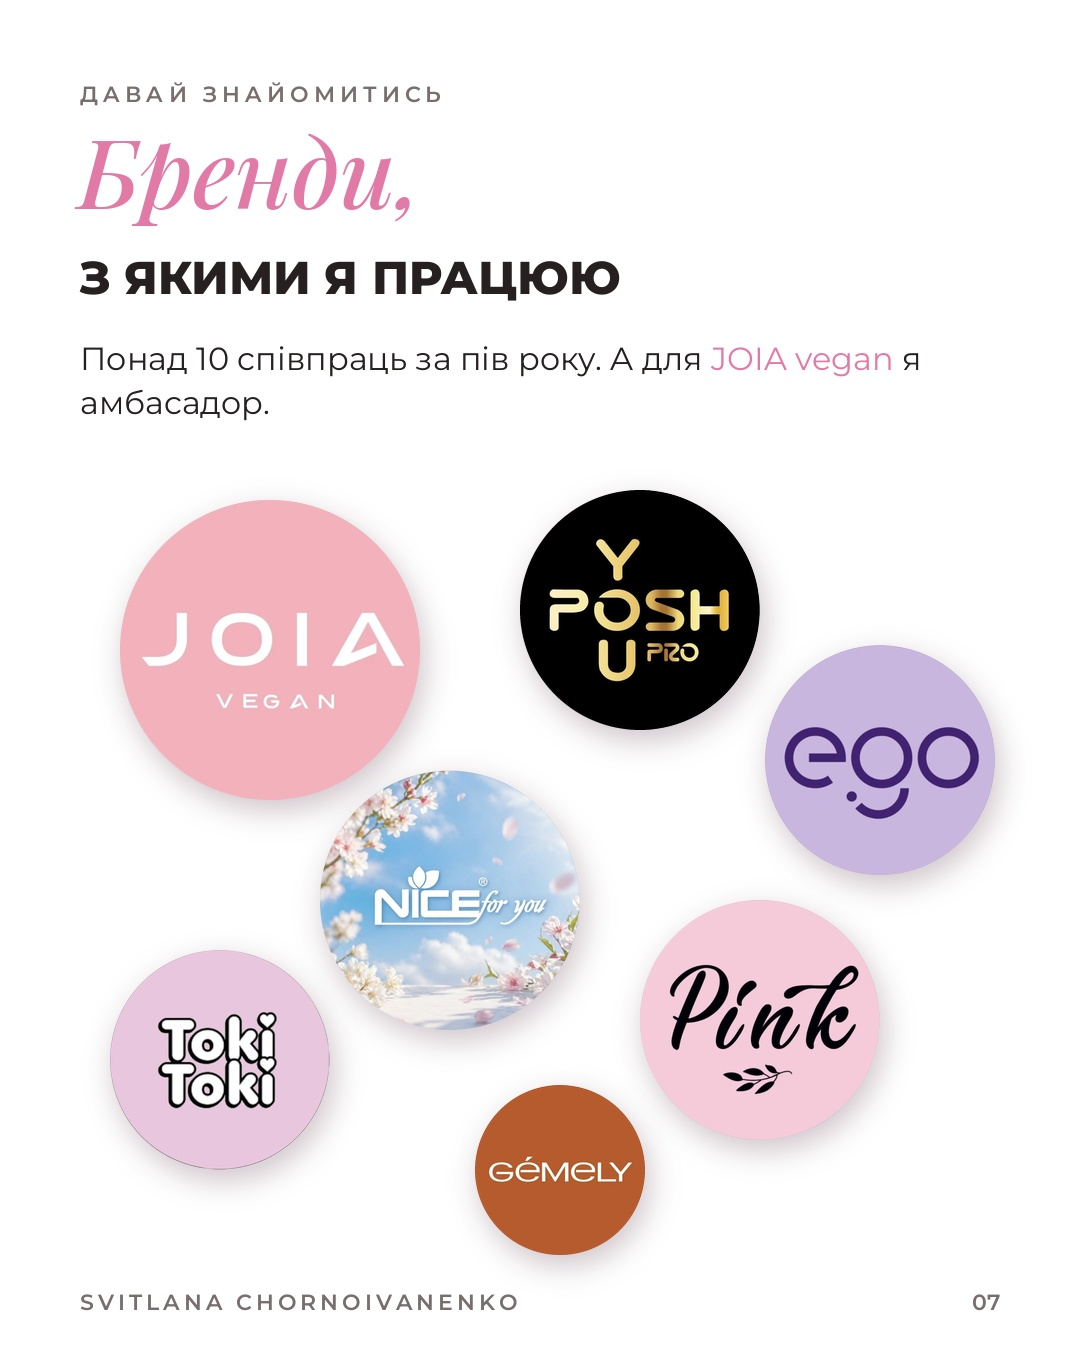
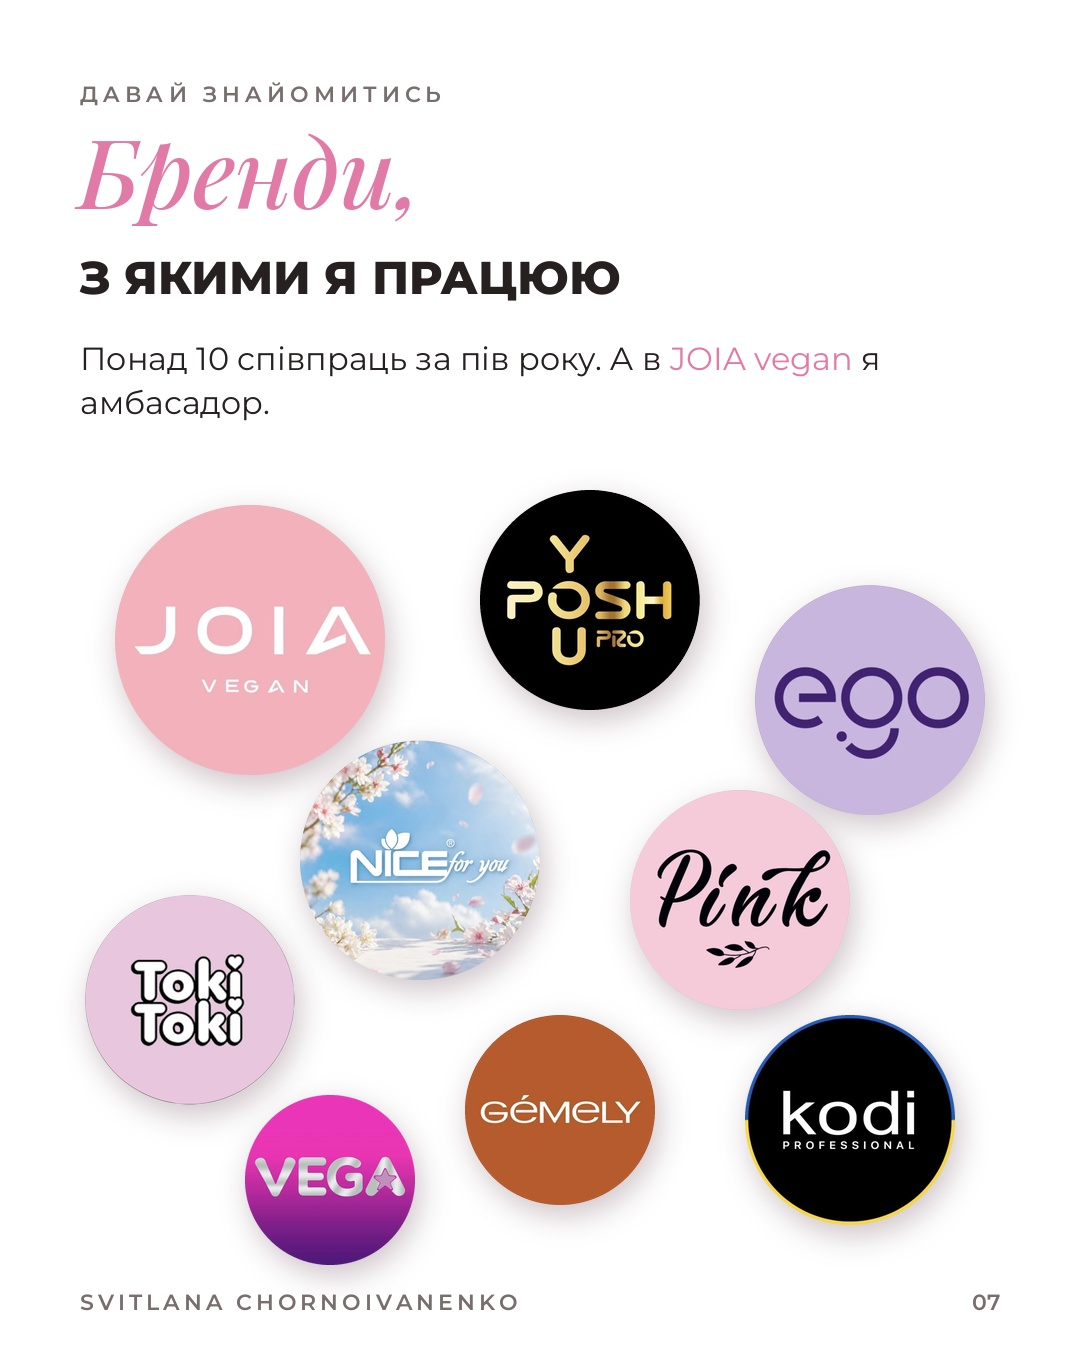
Intro carousel slide 7: add Kodi and Vega, update JOIA text
Claude-Session: https://claude.ai/code/session_0191xVL2hi5vHUvM1ix6pauC

diff --git a/karusel_znaiomstvo/build.py b/karusel_znaiomstvo/build.py
@@ -110,7 +110,7 @@ d = ImageDraw.Draw(c); foot(d, 6); c.save(f'{OUT}/06.jpg', quality=95)
 # ---------- 7 brands ----------
 c = Image.new('RGB', (W, H), BG); d = ImageDraw.Draw(c)
 y = hdr(d, 'Бренди,', 'З ЯКИМИ Я ПРАЦЮЮ')
-y = para(d, 80, y, 'Понад 10 співпраць за пів року. А для *JOIA vegan* я амбасадор.', M(32, 400), 920)
+y = para(d, 80, y, 'Понад 10 співпраць за пів року. А в *JOIA vegan* я амбасадор.', M(32, 400), 920)
 logos = [('74570f89-image.jpg', (20, 16, 867, 863)), ('38c881cc-image.jpg', (22, 3, 872, 853)),
          ('0f12cf60-image.jpg', (38, 22, 886, 870)), ('b59c2ad7-image.jpg', (30, 37, 880, 887)),
          ('11b18be4-image.jpg', (50, 15, 902, 867))]
@@ -121,9 +121,9 @@ def text_circle(t, r, fill, col):
     for l in lines:
         dd.text((r - dd.textlength(l, font=f) / 2, yy), l, font=f, fill=col); yy += lh
     return im
-spots = [(270, 650, 150), (640, 610, 120), (880, 760, 115), (450, 900, 130), (760, 1020, 120), (220, 1060, 110), (560, 1170, 85)]
+spots = [(250, 640, 135), (590, 600, 110), (870, 700, 115), (420, 860, 120), (740, 900, 110), (190, 1000, 105), (560, 1110, 95), (850, 1120, 105), (330, 1180, 85)]
 items = [Image.open(f'{U}/2f8da7c7-image.jpg').convert('RGB').crop((222, 40, 1068, 886))] + \
-        [Image.open(f'{U}/{n}').convert('RGB').crop(b) for n, b in logos] + [Image.open(f'{U}/d3f413c1-image.jpg').convert('RGB').crop((222, 44, 1068, 890))]
+        [Image.open(f'{U}/{n}').convert('RGB').crop(b) for n, b in logos] + [Image.open(f'{U}/d3f413c1-image.jpg').convert('RGB').crop((222, 44, 1068, 890)), Image.open(f'{U}/02debf74-image.jpg').convert('RGB').crop((232, 54, 1058, 880)), Image.open(f'{U}/331da466-image.jpg').convert('RGB').crop((232, 67, 1058, 893))]
 for (cx, cy, r), im in zip(spots, items): c = circle(c, im, cx, cy, r)
 d = ImageDraw.Draw(c); foot(d, 7); c.save(f'{OUT}/07.jpg', quality=95)
 
